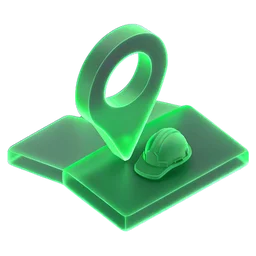
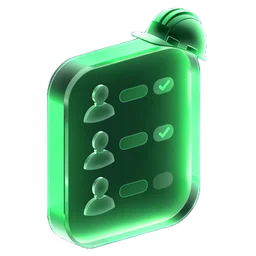
copy(benefits): card 4 is about who has checked in, not tracking
'Site monitoring / who works where' read like surveillance and was wrong:
the app only knows if someone checked in within the site radius, not their
exact position. New title+text in all 10 locales ('Vem är på plats idag' —
the crew checks in on arrival, you see who is there without calling around)
and a new icon (people list with check-in status + hard hat) instead of the
map pin.

Claude-Session: https://claude.ai/code/session_01VzWoDX5jjEGajCnmerNbgu

diff --git a/src/locales/benefits.ts b/src/locales/benefits.ts
@@ -20,9 +20,9 @@ export const benefitsTranslations = {
       benefitsOfficeCard3Text:
         "Не нужно звонить и напоминать сотрудникам вручную.",
 
-      benefitsOfficeCard4Title: "Контроль объектов",
+      benefitsOfficeCard4Title: "Кто сегодня на объекте",
       benefitsOfficeCard4Text:
-        "Видно в реальном времени кто работает, кто отсутствует и где.",
+        "Сотрудники отмечаются по приходе на объект — вы сразу видите, кто на месте, без звонков.",
     },
 
     site: {
@@ -67,9 +67,9 @@ export const benefitsTranslations = {
       benefitsOfficeCard3Title: "Automatic Task Reminders",
       benefitsOfficeCard3Text: "No need to call and remind employees manually.",
 
-      benefitsOfficeCard4Title: "Site Monitoring",
+      benefitsOfficeCard4Title: "Who's on site today",
       benefitsOfficeCard4Text:
-        "See in real time who is working, where they are working, and who is absent.",
+        "The crew checks in on arrival at the site – you see at a glance who is there, without calling around.",
     },
 
     site: {
@@ -114,9 +114,9 @@ export const benefitsTranslations = {
       benefitsOfficeCard3Text:
         "Ni behöver inte ringa och påminna medarbetare manuellt.",
 
-      benefitsOfficeCard4Title: "Kontroll över arbetsplatser",
+      benefitsOfficeCard4Title: "Vem är på plats idag",
       benefitsOfficeCard4Text:
-        "Se i realtid vem som arbetar, var de arbetar och vem som är frånvarande.",
+        "Personalen checkar in när de kommer till arbetsplatsen – du ser direkt vilka som är på plats, utan att ringa runt.",
     },
 
     site: {
@@ -162,9 +162,9 @@ export const benefitsTranslations = {
       benefitsOfficeCard3Text:
         "Dere trenger ikke ringe og minne ansatte på manuelt.",
 
-      benefitsOfficeCard4Title: "Kontroll over byggeplassene",
+      benefitsOfficeCard4Title: "Hvem er på plass i dag",
       benefitsOfficeCard4Text:
-        "Se i sanntid hvem som jobber, hvor de jobber og hvem som er fraværende.",
+        "Mannskapet sjekker inn når de kommer til byggeplassen – du ser med en gang hvem som er der, uten å ringe rundt.",
     },
 
     site: {
@@ -210,9 +210,9 @@ export const benefitsTranslations = {
       benefitsOfficeCard3Text:
         "Nie musisz dzwonić i ręcznie przypominać pracownikom.",
 
-      benefitsOfficeCard4Title: "Kontrola budów",
+      benefitsOfficeCard4Title: "Kto jest dziś na budowie",
       benefitsOfficeCard4Text:
-        "Widzisz w czasie rzeczywistym, kto pracuje, gdzie i kto jest nieobecny.",
+        "Pracownicy meldują się po przyjściu na budowę – od razu widzisz, kto jest na miejscu, bez dzwonienia.",
     },
 
     site: {
@@ -249,8 +249,8 @@ export const benefitsTranslations = {
       benefitsOfficeCard2Text: "Готові години для зарплат і рахунків одним кліком.",
       benefitsOfficeCard3Title: "Автонагадування",
       benefitsOfficeCard3Text: "Не потрібно телефонувати й нагадувати працівникам вручну.",
-      benefitsOfficeCard4Title: "Контроль об’єктів",
-      benefitsOfficeCard4Text: "Видно в реальному часі, хто працює, хто відсутній і де.",
+      benefitsOfficeCard4Title: "Хто сьогодні на об’єкті",
+      benefitsOfficeCard4Text: "Працівники відмічаються, коли приходять на об’єкт, — ви одразу бачите, хто на місці, без дзвінків.",
     },
     site: {
       benefitsSiteLead: "Що отримує будівельна бригада:",
@@ -278,8 +278,8 @@ export const benefitsTranslations = {
       benefitsOfficeCard2Text: "Valmiit tunnit palkkoihin ja laskuihin yhdellä klikkauksella.",
       benefitsOfficeCard3Title: "Automaattiset muistutukset",
       benefitsOfficeCard3Text: "Sinun ei tarvitse soittaa ja muistuttaa työntekijöitä käsin.",
-      benefitsOfficeCard4Title: "Työmaiden hallinta",
-      benefitsOfficeCard4Text: "Näet reaaliajassa kuka työskentelee, missä ja kuka on poissa.",
+      benefitsOfficeCard4Title: "Kuka on tänään työmaalla",
+      benefitsOfficeCard4Text: "Työntekijät kirjautuvat saapuessaan työmaalle – näet heti, kuka on paikalla, ilman soittelua.",
     },
     site: {
       benefitsSiteLead: "Mitä työryhmä saa:",
@@ -307,8 +307,8 @@ export const benefitsTranslations = {
       benefitsOfficeCard2Text: "Valmis tunnid palkadeks ja arveteks ühe klikiga.",
       benefitsOfficeCard3Title: "Automaatsed meeldetuletused",
       benefitsOfficeCard3Text: "Te ei pea töötajatele käsitsi helistama ja meelde tuletama.",
-      benefitsOfficeCard4Title: "Objektide kontroll",
-      benefitsOfficeCard4Text: "Näete reaalajas, kes töötab, kus ja kes puudub.",
+      benefitsOfficeCard4Title: "Kes on täna objektil",
+      benefitsOfficeCard4Text: "Töötajad registreerivad end objektile saabudes – näed kohe, kes on kohal, ilma helistamata.",
     },
     site: {
       benefitsSiteLead: "Mida ehitusmeeskond saab:",
@@ -336,8 +336,8 @@ export const benefitsTranslations = {
       benefitsOfficeCard2Text: "Paruoštos valandos atlyginimams ir sąskaitoms vienu paspaudimu.",
       benefitsOfficeCard3Title: "Automatiniai priminimai",
       benefitsOfficeCard3Text: "Nereikia skambinti ir rankiniu būdu priminti darbuotojams.",
-      benefitsOfficeCard4Title: "Objektų kontrolė",
-      benefitsOfficeCard4Text: "Realiu laiku matote, kas dirba, kur ir kas nedalyvauja.",
+      benefitsOfficeCard4Title: "Kas šiandien objekte",
+      benefitsOfficeCard4Text: "Darbuotojai užsiregistruoja atvykę į objektą – iškart matote, kas yra vietoje, neskambinant.",
     },
     site: {
       benefitsSiteLead: "Ką gauna statybų komanda:",
@@ -365,8 +365,8 @@ export const benefitsTranslations = {
       benefitsOfficeCard2Text: "Gatavas stundas algām un rēķiniem ar vienu klikšķi.",
       benefitsOfficeCard3Title: "Automātiski atgādinājumi",
       benefitsOfficeCard3Text: "Nav jāzvana un manuāli jāatgādina darbiniekiem.",
-      benefitsOfficeCard4Title: "Objektu kontrole",
-      benefitsOfficeCard4Text: "Reāllaikā redzat, kurš strādā, kur un kurš nav klāt.",
+      benefitsOfficeCard4Title: "Kurš šodien ir objektā",
+      benefitsOfficeCard4Text: "Darbinieki reģistrējas, ierodoties objektā – uzreiz redzat, kurš ir uz vietas, bez zvanīšanas.",
     },
     site: {
       benefitsSiteLead: "Ko iegūst būvniecības brigāde:",
